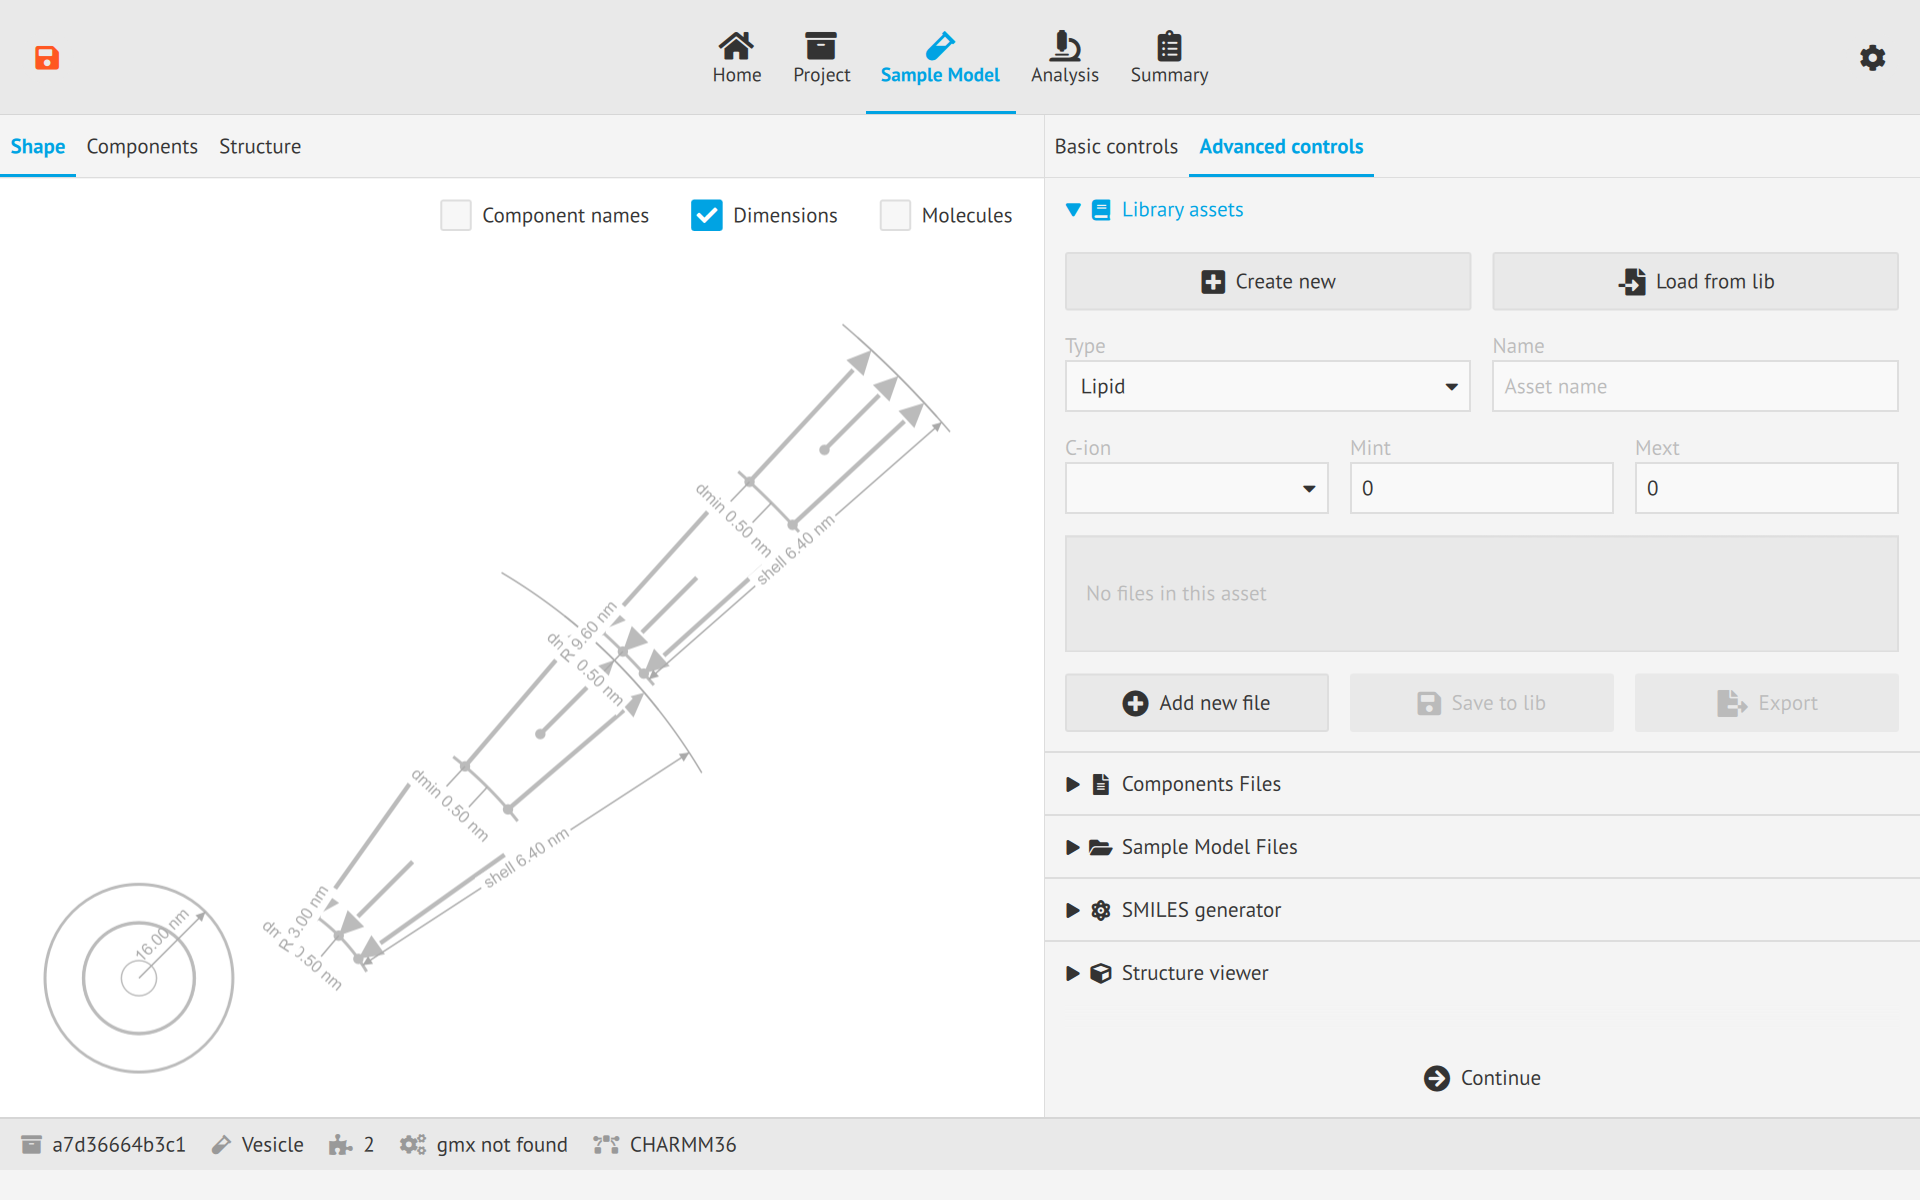
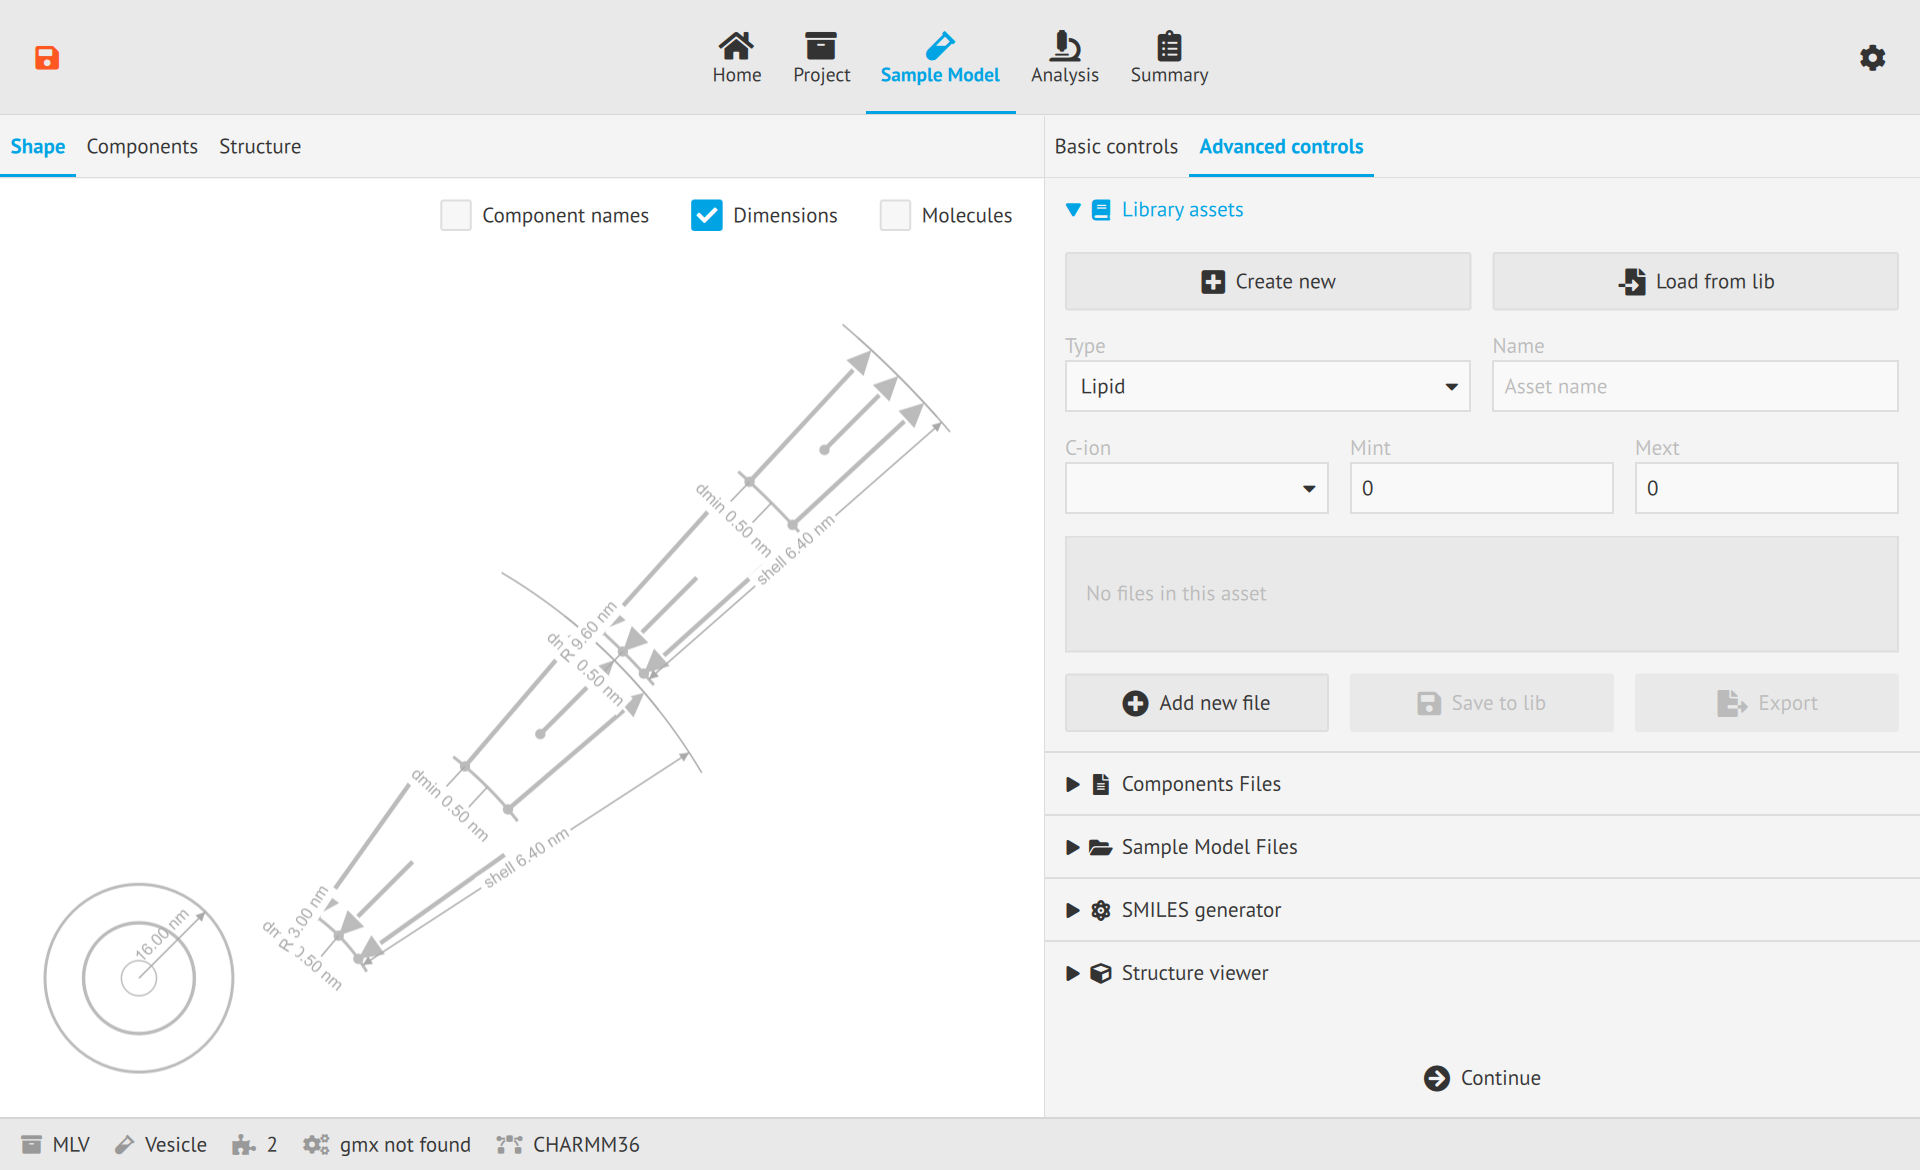
Add the Project page to the User Guide; build docs examples with make_examples, assembled before the app starts

diff --git a/tools/docs_capture.py b/tools/docs_capture.py
@@ -10,6 +10,10 @@ the light and once in the dark theme. Its settings and projects go to a
 scrap folder that is deleted at the end, as is what its assemblies leave
 in shapespyer's Temp. Close EasyShapes first: Temp folders it makes during
 the run would be deleted too.
+
+The assembled vesicle is made once, before any app window opens, and
+kept in CACHE_DIR (easyshapes-docs-cache in the system's temp folder)
+between runs; delete it after changing build_mlv.
 """
 
 import shutil
@@ -28,22 +32,33 @@ EASYAPP_DIR = Path(EasyApplication.__path__[0]).resolve().parent
 WIDTH, HEIGHT = 1280, 800
 # EaStyle.Colors.Themes: LightTheme = 0, DarkTheme = 1
 THEMES = {'light': 0, 'dark': 1}
+# Assembled examples, kept between runs: assembling takes minutes.
+# shortcut: changes to an example don't reach its copy here, delete it
+# by hand then; key the copies by a hash of the examples if that bites
+CACHE_DIR = Path(tempfile.gettempdir()) / 'easyshapes-docs-cache'
+# The Project scene's folder: never created, as the project is never
+# saved, and with no user name in it, unlike a Temp path
+PROJECT_LOCATION = str(Path(Path.home().anchor, 'Projects', 'POPC-vesicle'))
+
+# main.py's own imports: Backends and Gui sit in the app folder
+sys.path.insert(0, str(APP_DIR))
 
 # Drives the app through the calls its own buttons make
 DRIVER_QML = b"""
 import QtQuick
+import EasyApplication.Gui.Globals as EaGlobals
 import Gui.Globals as Globals
 
 QtObject {
     readonly property var tabs: Globals.References.applicationWindow.appBarCentralTabs
-    // True while an assembly runs; the message of the last failure
-    readonly property bool busy: Globals.BackendWrapper.sampleModelFilesLocked
-    readonly property string error: Globals.BackendWrapper.errorMessage
+    // True while the Structure tab reads its atoms; why the read failed
+    readonly property bool busy: Globals.BackendWrapper.structureViewLoading
+    readonly property string error: Globals.BackendWrapper.structureViewError
 
     // A new project with its tabs enabled, as Home's Start and the
     // Project page's Continue leave them
-    function createProject(path) {
-        Globals.BackendWrapper.projectCreate('', '', path)
+    function createProject(name, description, path) {
+        Globals.BackendWrapper.projectCreate(name, description, path)
         tabs.projectButton.opened = true
         tabs.sampleModelButton.enabled = true
     }
@@ -54,7 +69,8 @@ QtObject {
     }
     // toggle() would close a tab that is already open
     function openTab(name) { if (!tabs[name].checked) tabs[name].toggle() }
-    function assemble() { Globals.BackendWrapper.sampleModelAssemble() }
+    // The Create project dialog, as Get started's first button opens it
+    function showCreateDialog(shown) { EaGlobals.Vars.showProjectDescriptionDialog = shown }
 }
 """
 
@@ -75,10 +91,11 @@ def wait(ms):
     loop.exec()
 
 
-def wait_until_idle(driver, limit_s=1800):
+def wait_until_idle(driver, limit_s=120):
     """
-    Let the app run until its assembly ends. Raises the app's error
-    message if it failed, and TimeoutError after limit_s seconds.
+    Let the app run until the Structure tab has read its atoms. Raises
+    the tab's error message if the read failed, and TimeoutError after
+    limit_s seconds.
     """
     for _ in range(limit_s * 2):
         wait(500)
@@ -86,7 +103,7 @@ def wait_until_idle(driver, limit_s=1800):
             if driver.property('error'):
                 raise RuntimeError(driver.property('error'))
             return
-    raise TimeoutError(f'The assembly took longer than {limit_s} s')
+    raise TimeoutError(f'Reading the structure took longer than {limit_s} s')
 
 
 def build_lattice_ring(path):
@@ -176,7 +193,7 @@ def set_checked(window, text, checked):
 
 def tilt_structure(window):
     """
-    Turn the visible structure viewer 45° down from above and 45° about
+    Turn the visible structure viewer 45° up from below and 45° about
     the vertical axis, as a drag on it would.
     """
     view = find_item(
@@ -186,7 +203,7 @@ def tilt_structure(window):
         'structure viewer',
     )
     origin = view.findChild(QObject, 'structureOrigin')
-    origin.setProperty('eulerRotation', QVector3D(-45, 45, 0))
+    origin.setProperty('eulerRotation', QVector3D(45, 45, 0))
 
 
 def temp_entries():
@@ -205,8 +222,6 @@ def main(output_dir, theme):
     scrap = Path(tempfile.mkdtemp(prefix='easyshapes-docs-'))
     temp_before = temp_entries()
     try:
-        # main.py's own imports: Backends and Gui sit in the app folder
-        sys.path.insert(0, str(APP_DIR))
         from Backends.real_backend import Backend
         from Backends.real_py.logic.examples import build_mlv, build_sds_ball
 
@@ -237,19 +252,35 @@ def main(output_dir, theme):
             raise RuntimeError(component.errorString())
 
         basic, advanced = 'Basic controls', 'Advanced controls'
-        # Each scene: how it is built (None: a new project in the app),
-        # whether it is assembled, and its shots: name, sidebar tab, group
-        # to open (None: as the page shows it) and main-area tab. The dry
-        # vesicle assembles without GROMACS: nothing is added to it
+        # Each page's tab in the app bar, by its name in the file names
+        page_tabs = {'project': 'projectButton', 'sample-model': 'sampleModelButton'}
+        # Each scene: how it is made, the page it shows, and its shots:
+        # name, sidebar tab, group to open (None: as the page shows it)
+        # and main-area tab. A builder saves a scene, which is then
+        # loaded; a name, a description and a folder create one in the
+        # app. The Project scene comes first, while the page still shows
+        # only Get started: Recent projects lists your own
         scenes = {
-            'empty': (None, False, [
+            'project': (
+                ('POPC-vesicle', 'Dry POPC and cholesterol, two lamellae.', PROJECT_LOCATION),
+                'project',
+                [
+                    ('description', basic, None, 'Description'),
+                    ('create-dialog', basic, None, 'Description'),
+                ],
+            ),
+            'empty': (('', '', str(scrap / 'empty')), 'sample-model', [
                 ('basic-model-definition', basic, None, 'Shape'),
             ]),
-            'mlv-assembled': (build_mlv, True, [
-                ('main-structure', advanced, 'Structure viewer', 'Structure'),
-                ('advanced-sample-model-files', advanced, 'Sample Model Files', 'Structure'),
-            ]),
-            'mlv': (build_mlv, False, [
+            'mlv-assembled': (
+                lambda path: shutil.copytree(CACHE_DIR / 'MLV', path),
+                'sample-model',
+                [
+                    ('main-structure', advanced, 'Structure viewer', 'Structure'),
+                    ('advanced-sample-model-files', advanced, 'Sample Model Files', 'Structure'),
+                ],
+            ),
+            'mlv': (build_mlv, 'sample-model', [
                 ('basic-components', basic, 'Components', 'Shape'),
                 ('basic-vesicle-structure', basic, 'Vesicle Structure Definition', 'Shape'),
                 ('basic-lamellae', basic, 'Lamellae', 'Shape'),
@@ -258,28 +289,25 @@ def main(output_dir, theme):
                 ('advanced-smiles-generator', advanced, 'SMILES generator', 'Shape'),
                 ('main-components', basic, 'Components', 'Components'),
             ]),
-            'sds-ball': (build_sds_ball, False, [
+            'sds-ball': (build_sds_ball, 'sample-model', [
                 ('basic-layers', basic, 'Layers', 'Shape'),
                 ('basic-buffer', basic, 'Buffer', 'Shape'),
             ]),
-            'lattice-ring': (build_lattice_ring, False, [
+            'lattice-ring': (build_lattice_ring, 'sample-model', [
                 ('basic-ring-structure', basic, 'Ring Structure Definition', 'Shape'),
                 ('basic-lattice-parameters', basic, 'Lattice Parameters', 'Shape'),
                 ('main-lattice', basic, 'Lattice Parameters', 'Lattice'),
             ]),
         }
-        for scene, (build, assemble, shots) in scenes.items():
-            path = str(scrap / scene)
-            if build is None:
-                call(driver, 'createProject', path)
-            else:
+        for scene, (build, page, shots) in scenes.items():
+            if callable(build):
+                path = str(scrap / scene)
                 build(path)
                 call(driver, 'loadProject', path)
-            call(driver, 'openTab', 'sampleModelButton')
+            else:
+                call(driver, 'createProject', *build)
+            call(driver, 'openTab', page_tabs[page])
             wait(1000)
-            if assemble:
-                call(driver, 'assemble')
-                wait_until_idle(driver)
             for name, sidebar, group, main_tab in shots:
                 # Every shot the same size, even if the window was resized
                 window.setWidth(WIDTH)
@@ -294,8 +322,15 @@ def main(output_dir, theme):
                     set_checked(window, 'Molecules', name == 'basic-components')
                 if main_tab == 'Structure':
                     tilt_structure(window)
+                    # The tab reads its atoms when it opens
+                    wait_until_idle(driver)
+                if name == 'create-dialog':
+                    call(driver, 'showCreateDialog', True)
                 wait(2500)
-                window.grabWindow().save(str(output_dir / f'sample-model-{name}-{theme}.png'))
+                window.grabWindow().save(str(output_dir / f'{page}-{name}-{theme}.png'))
+                # Closed again, or it would cover every later shot
+                if name == 'create-dialog':
+                    call(driver, 'showCreateDialog', False)
 
         # The window goes before the backend singleton, as in main.py
         del driver, component, engine
@@ -314,6 +349,11 @@ if __name__ == '__main__':
     if theme:
         main(output_dir, theme[0])
     else:
+        from Backends.real_py.logic.examples import make_examples
+
+        # Here, with no window: assembling takes minutes, and a window
+        # kept busy that long stops answering
+        make_examples(CACHE_DIR, ['MLV'], assemble=True)
         # One app per theme: a status bar value keeps the colour of the
         # theme it last changed in (EasyApp StatusBarItem.qml:81-84)
         for name in THEMES:

diff --git a/src/easyshapes_app/Backends/real_py/logic/examples.py b/src/easyshapes_app/Backends/real_py/logic/examples.py
@@ -2,6 +2,8 @@
 # SPDX-License-Identifier: BSD-3-Clause
 
 import math
+import shutil
+from pathlib import Path
 
 from shapes.project import Ball
 from shapes.project import Ion
@@ -37,6 +39,7 @@ def build_mlv(path):
         lamella.inner_leaflet_composition.set_mol_ratio('POPC', 70)
         lamella.inner_leaflet_composition.set_mol_ratio('CHL', 30)
     project = Project(
+        name='MLV',
         path=path,
         title='Multilamellar vesicle',
         description='Dry POPC and cholesterol (70 : 30), two lamellae 6.6 nm apart.',
@@ -60,6 +63,7 @@ def build_sds_ball(path):
     ball.layers[0].dmin = 0.4
     ball.layers[0].rmin = 16 * 0.4 / (2 * math.pi)
     project = Project(
+        name='SDSBall',
         path=path,
         title='SDS ball',
         description=(
@@ -75,3 +79,31 @@ def build_sds_ball(path):
     )
     project.save()
     return project
+
+
+# The examples, by the folder each is saved in: Project › Examples
+# lists those folders by name
+EXAMPLES = {'MLV': build_mlv, 'SDSBall': build_sds_ball}
+
+
+def make_examples(folder, names=tuple(EXAMPLES), *, assemble=False):
+    """
+    Save examples into a folder, such as the app's Examples folder, each
+    in a subfolder of its name; skip those the folder holds already.
+    assemble=True also assembles each one, which takes minutes, and
+    needs GROMACS for an example with a buffer.
+    """
+    for name in names:
+        path = Path(folder) / name
+        if path.exists():
+            continue
+        partial = path.with_name(f'{name}.partial')
+        # Left by a run that failed
+        shutil.rmtree(partial, ignore_errors=True)
+        project = EXAMPLES[name](partial)
+        if assemble:
+            project.sample_model.assemble()
+            # Keeps the assembled files in the folder, not in Temp
+            project.save()
+        # Renamed once complete: a failed run leaves no half example
+        partial.rename(path)

diff --git a/docs/docs/user-guide/project.md b/docs/docs/user-guide/project.md
@@ -1,0 +1,82 @@
+---
+icon: material/archive
+---
+
+# :material-archive: Project
+
+A project holds everything you make in EasyShapes: the sample model, its
+assembled structure, and the analysis with its equilibration and
+scattering results. Each project is a folder on disk.
+
+**Start** on the Home page opens this page.
+
+![Project page with a new project](img/project-description-light.png#only-light)
+![Project page with a new project](img/project-description-dark.png#only-dark)
+
+## Basic controls
+
+### Get started
+
+- **Create a new project** – opens the Create project dialog (below).
+- **Open an existing project** – opens a project folder.
+
+Creating or opening a project replaces the open one without asking, so
+save your work first. The whole Project tab is off while an assembly,
+equilibration or scattering calculation runs.
+
+The **Create project** dialog has three fields. All are optional:
+
+- **Name** – starts with a letter, then 1–30 letters, digits, `_`, `-`
+  or `.`. Empty gives a random name.
+- **Description** – a short note about the project.
+- **Location** – the folder to save the project in.
+  :material-folder-open: picks one. It must be new or empty: otherwise
+  it turns red and **OK** stays off. Empty saves to
+  `Projects/<name>-<ID>` in Shapespyer's data folder (see
+  [Installation & Setup](../installation-and-setup/index.md) for where
+  it is).
+
+The new project is written to disk at its first save.
+
+![Create project dialog](img/project-create-dialog-light.png#only-light)
+![Create project dialog](img/project-create-dialog-dark.png#only-dark)
+
+### Examples
+
+Ready-made projects to start from. Click one to open it. Saving it saves
+a copy in the default projects folder, and the example stays as it is.
+
+### Recent projects
+
+The projects you have saved, newest first, each with the time of its
+last save. Hover over one to see its folder; click it to open it.
+Examples don't appear here.
+
+## Description tab
+
+The open project:
+
+- **Name** – the large title. Click it to change it, with the same rule
+  as in the Create project dialog.
+- **Description** – click it to change it.
+- **Location** – the project's folder. A long path loses its start;
+  hover over it to see all of it.
+- **Last saved** – empty until the first save.
+
+Without a project, the page shows "No project defined".
+
+## Saving
+
+:material-content-save: at the top left of the window, or Ctrl+S, saves
+the project into its folder. The first save creates the folder and adds
+the project to Recent projects. Saving is off while an assembly,
+equilibration or scattering calculation runs.
+
+## Continue
+
+**Continue** opens the Sample Model page. An opened project also unlocks
+the Analysis page at once.
+
+Without a project, the button reads **Continue without project**. You
+can build a sample model then, but not save it. The first project you
+create afterwards takes it in.

diff --git a/docs/docs/user-guide/sample-model.md b/docs/docs/user-guide/sample-model.md
@@ -253,8 +253,8 @@ shows whether the app has found it; see
 [Installation & Setup](../installation-and-setup/index.md). A dry
 structure assembles without it.
 
-Big structures take time: a vesicle of about 1.8 million atoms takes 8–9
-minutes on a laptop.
+Big structures take time: a vesicle of about 1.8 million atoms takes a
+few minutes on a laptop.
 
 ## Advanced controls
 

diff --git a/docs/docs/user-guide/index.md b/docs/docs/user-guide/index.md
@@ -41,7 +41,7 @@ aim for. Then it goes through only the controls needed to get there.
 
 One page per tab, describing each group and control:
 
-- Project
+- [Project](project.md)
 - [Sample Model](sample-model.md)
 - Analysis
 - Summary
